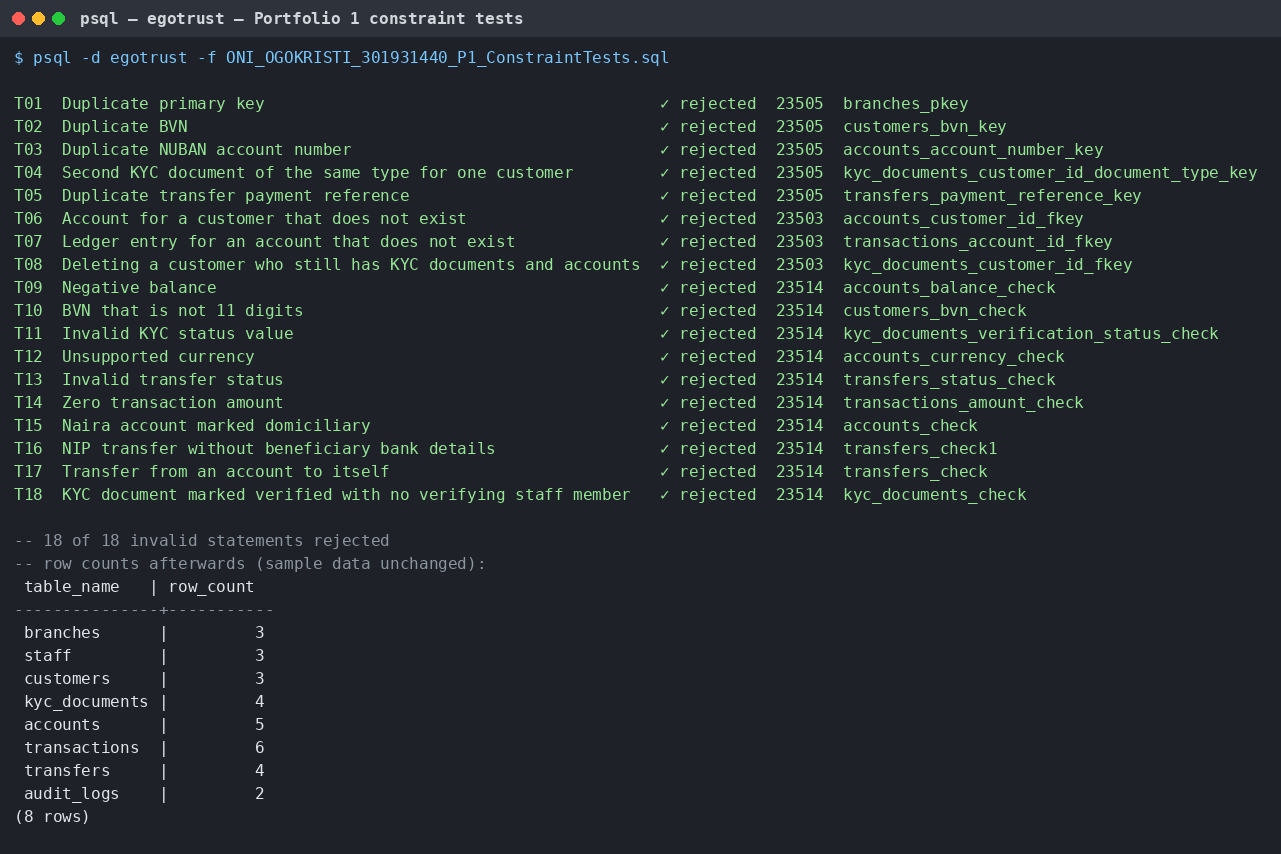
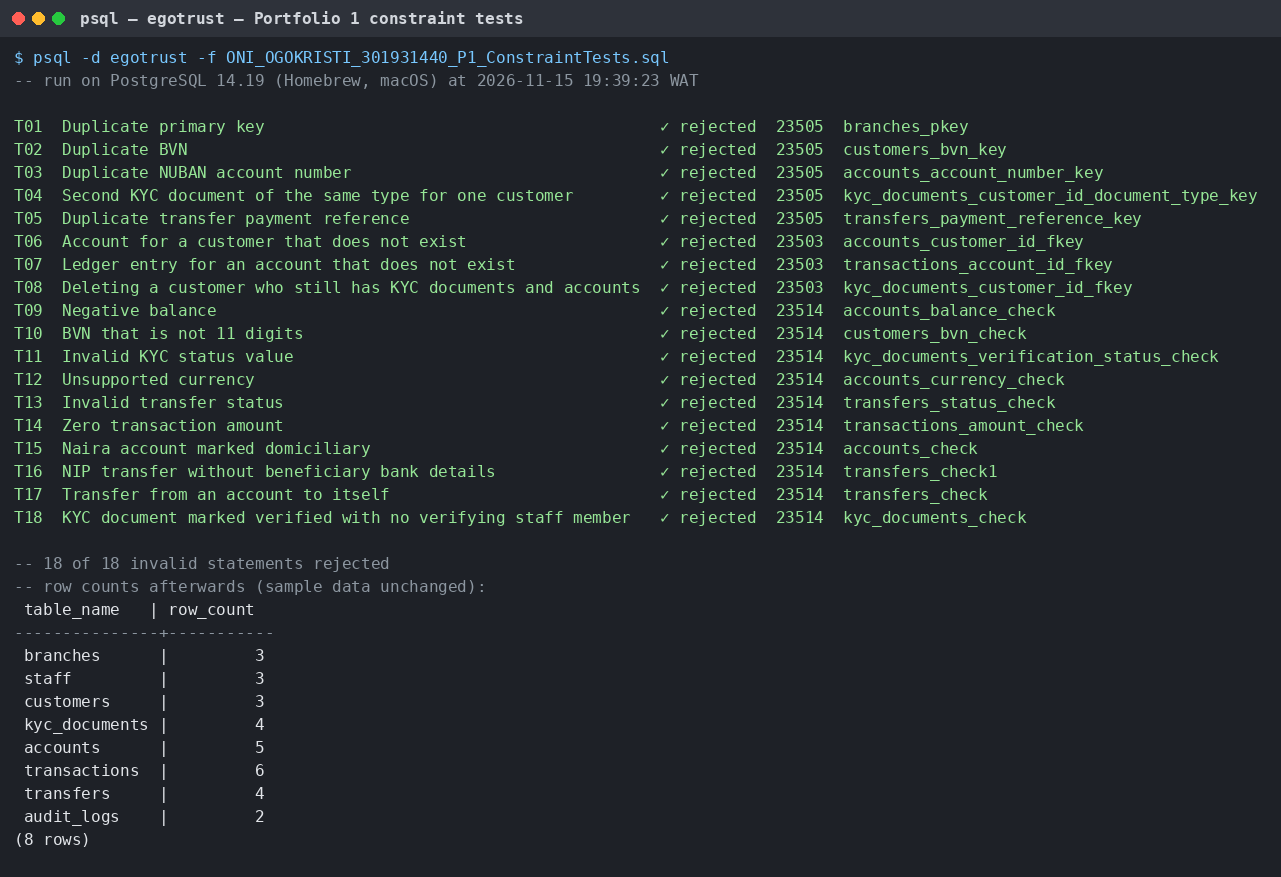
Portfolio 1: evidence from my own PostgreSQL 14.19 run (18/18 constraint tests rejected)

diff --git a/portfolio-1-database-design/ONI_OGOKRISTI_301931440_P1_README.md b/portfolio-1-database-design/ONI_OGOKRISTI_301931440_P1_README.md
@@ -42,7 +42,7 @@ psql -U postgres -d egotrust -f ONI_OGOKRISTI_301931440_P1_SampleData.sql
 psql -U postgres -d egotrust -f ONI_OGOKRISTI_301931440_P1_ConstraintTests.sql   # expect 18 errors
 ```
 
-Tested on PostgreSQL 16.
+Run on PostgreSQL 14.19 on my Mac (the evidence above, raw output in [`ONI_OGOKRISTI_301931440_P1_Output.txt`](ONI_OGOKRISTI_301931440_P1_Output.txt)); also tested on PostgreSQL 16.
 
 ## References
 
